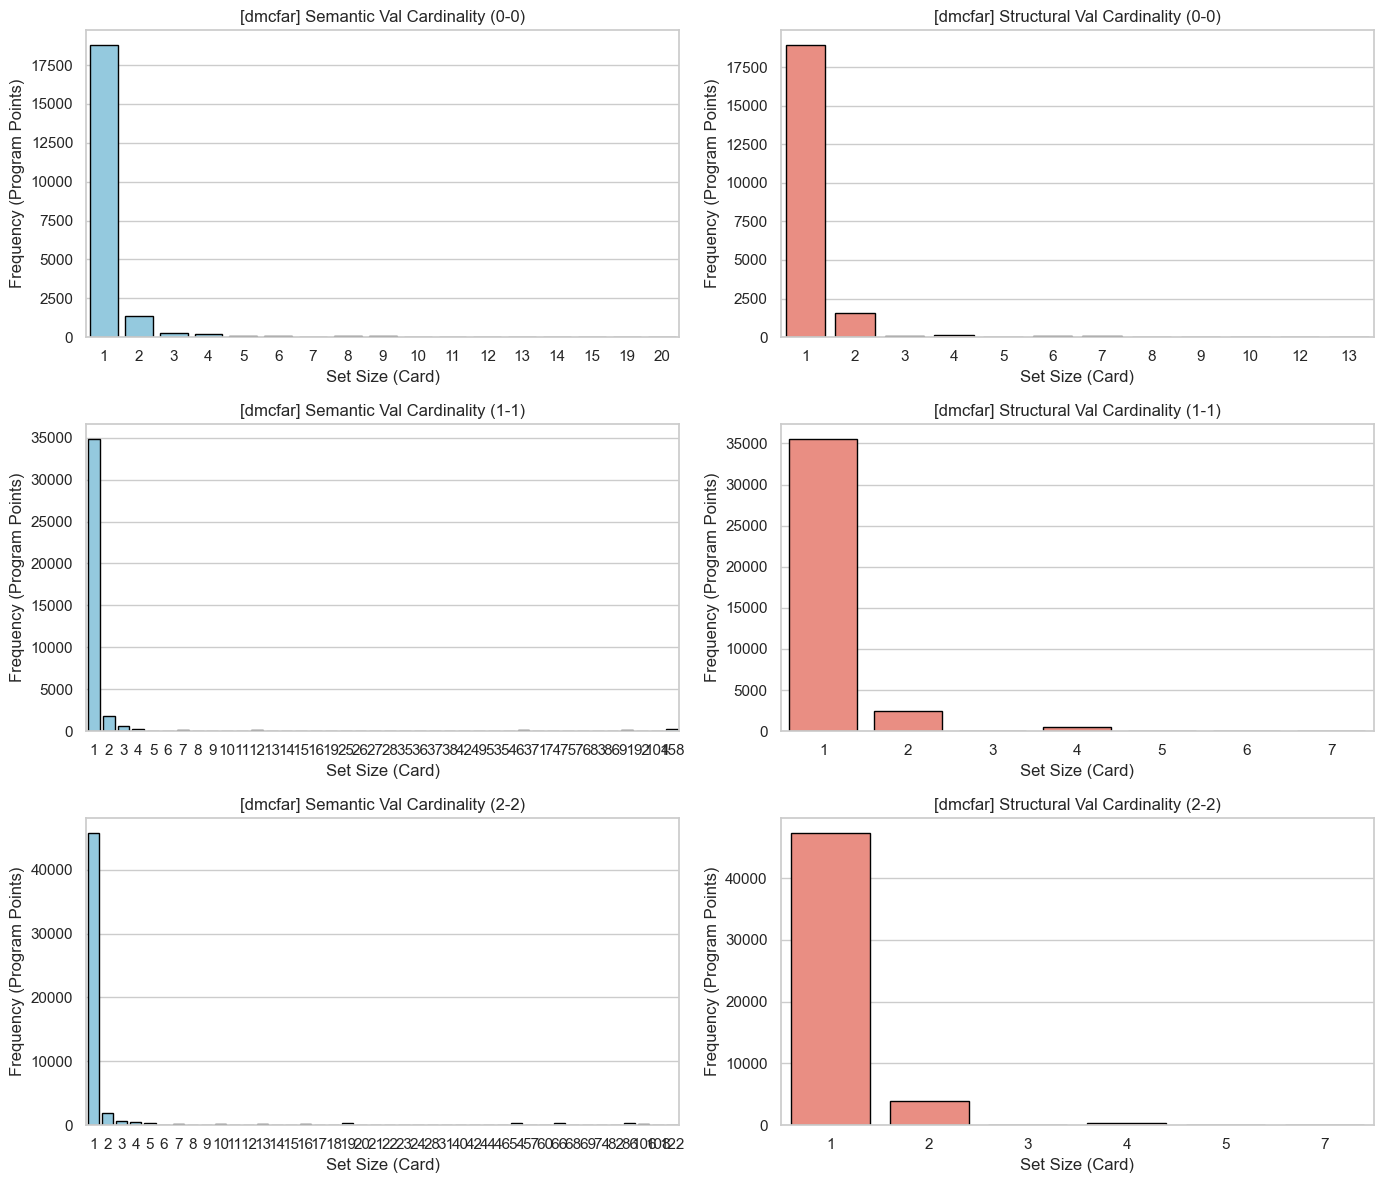
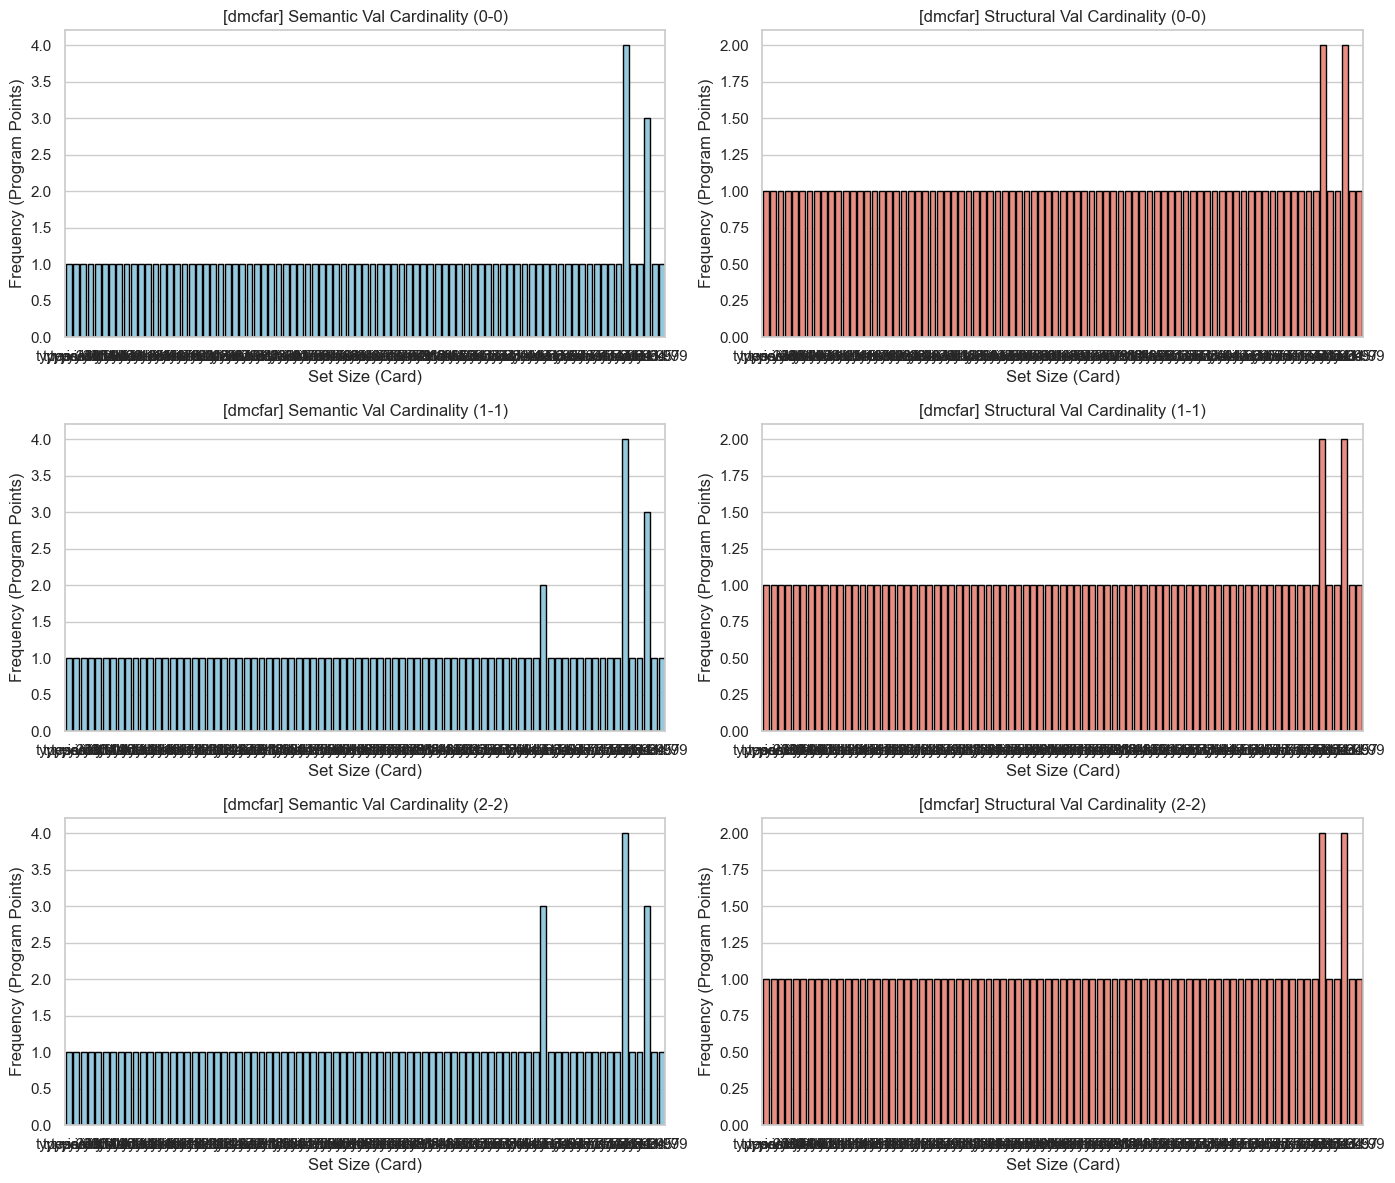
update analysis script / plots

diff --git a/benchmarks/analyze.py b/benchmarks/analyze.py
@@ -94,9 +94,11 @@ def compute_metrics(run, baseline_run):
     # Measures how many singletons were found relative to the original program's baseline size
     # This prevents the 'expansion' from diluting the precision score.
     base_total = baseline['numStructAddresses']
-    base_prec_struct = baseline['val0CFAStrSingletons'] / base_total if base_total > 0 else 1.0
-    poly_prec_struct = m['val0CFAStrSingletons'] / base_total if base_total > 0 else 1.0
-    prec_struct = poly_prec_struct / base_prec_struct if base_prec_struct > 0 else 1.0
+    # base_prec_struct = baseline['val0CFAStrSingletons'] / base_total if base_total > 0 else 1.0
+    # poly_prec_struct = m['val0CFAStrSingletons'] / base_total if base_total > 0 else 1.0
+    # if poly_prec_struct < base_prec_struct:
+    #     raise Exception(f"Poly: {poly_prec_struct}, Base: {base_prec_struct}, Addrs: {base_total}, Name: {run['benchmarkName']}, Variant: {run['variant']}, Params: {run['d']} {run['m']}")
+    # prec_struct = poly_prec_struct / base_prec_struct if base_prec_struct > 0 else 1.0
     
     # Relative Semantic Precision (Data-Flow Improvement)
     base_prec_sem = baseline['valSemSingletons'] / base_total if base_total > 0 else 1.0
@@ -108,24 +110,28 @@ def compute_metrics(run, baseline_run):
     prec_lit = (m['numLitAddresses'] - m['literalTopCount']) / m['numLitAddresses'] if m['numLitAddresses'] > 0 else 1.0
 
     # Productivity Helper (Smaragdakis et al., 2011)
-    def calc_prod(poly_map, base_map):
-        if not base_map: return 0.0
+    def calc_prod(metric, poly, base):
+        poly_map = poly[metric]
+        base_map = base[metric]
+        if not base_map: 
+            if not poly_map:
+                return 0.0
+            return 0.0 # raise Exception("Error " + str(base_map) + " " + str(run['benchmarkName']))
         hits = 0
-        for x_id, szs in poly_map.items():
-            base_vals = base_map.get(x_id)
+        for x_id, base_vals in base_map.items():
+            szs = poly_map.get(x_id)
             # if len(base_vals) > 1: raise Exception(f"Unexpected list length in base map {base_vals} {x_id}")
-            if base_vals is None: continue
-            
-            # Filter out -1 (Top) from baseline and get min
-            filtered_base = [v for v in base_vals if v != -1]
-            if not filtered_base:
-                # Baseline was Top, any non-Top size in poly is a hit
-                if any(s != -1 for s in szs):
-                    hits += 1
+            if szs is None: 
+                hits += 1 # dead code for poly
                 continue
             
+            # Filter out -1 (Top) from baseline and get min
+            filtered_base = [v for v in [base_vals] if v != -1]
+            if not filtered_base:
+                continue
             base_min = min(filtered_base)
-            if any(s < base_min and s != -1 for s in szs):
+            
+            if any(s < base_min and s != -1 for s in [szs]):
                 hits += 1
         return hits / len(base_map)
 
@@ -134,14 +140,14 @@ def compute_metrics(run, baseline_run):
         "time": avg_time,
         "rel_time": rel_time,
         "expansion": expansion,
-        "prec_struct": prec_struct,
+        "prec_struct": calc_prod('storeToStrSizes', m, baseline),
         "prec_sem": prec_sem,
         "prec_lit": prec_lit,
-        "prod_v_sem": calc_prod(m['exprToValSemSizes'], baseline['exprToValSemSizes']),
-        "prod_v_str": calc_prod(m['exprToValStrSizes'], baseline['exprToValStrSizes']),
-        "prod_k_str": calc_prod(m['structToContStrSizes'], baseline['structToContStrSizes']),
-        "prod_sem": calc_prod(m['callToSemRetSizes'], baseline['callToSemRetSizes']),
-        "prod_str": calc_prod(m['structToStrRetSizes'], baseline['structToStrRetSizes'])
+        "prod_v_sem": calc_prod('exprToValSemSizes', m, baseline),
+        "prod_v_str": calc_prod('exprToValStrSizes', m, baseline),
+        "prod_k_str": calc_prod('structToContStrSizes', m, baseline),
+        "prod_sem": calc_prod('callToSemRetSizes', m, baseline),
+        "prod_str": calc_prod('structToStrRetSizes', m, baseline)
     }
 
 def generate_icfp_tables(results, baselines, variant_name):
@@ -274,7 +280,7 @@ def plot_visualizations(df, struct_mu, sem_mu, time_mu, variant_name):
         ax.set_title(f"[{variant_name}] Pareto: Space vs {label}", fontsize=15, pad=20)
         ax.set_xlabel("Expansion Factor (Geometric Mean, Log Scale)")
         ax.set_xscale('log')
-        ax.set_ylabel(f"Relative Precision (Baseline = 1.0)")
+        ax.set_ylabel(f"Relative Precision (Baseline = {1.0 if metric == 'prec_sem' else 0.0})")
         # Add timeout legend note
         handles, labels = ax.get_legend_handles_labels()
         ax.legend(handles, labels, title="Sensitivity (d, m)\n⚠N = N timeouts", 
@@ -282,7 +288,7 @@ def plot_visualizations(df, struct_mu, sem_mu, time_mu, variant_name):
         plt.tight_layout()
         print(f"Saving Pareto Space: {os.path.join(output_dir, f'pareto_{filename_pfx}.png')}")
         plt.savefig(os.path.join(output_dir, f"pareto_{filename_pfx}.png"), bbox_inches='tight')
-        plt.show()
+        # plt.show()
         plt.close()
     
     # Plot Pareto Frontiers (Rel Time vs Precisions)
@@ -298,7 +304,7 @@ def plot_visualizations(df, struct_mu, sem_mu, time_mu, variant_name):
         ax.set_title(f"[{variant_name}] Pareto: Relative Time vs {label}", fontsize=15, pad=20)
         ax.set_xlabel("Time Overhead (Geometric Mean, Log Scale)")
         ax.set_xscale('log')
-        ax.set_ylabel(f"Relative Precision (Baseline = 1.0)")
+        ax.set_ylabel(f"Relative Precision (Baseline = {1.0 if metric == 'prec_sem' else 0.0})")
         # Add timeout legend note
         handles, labels = ax.get_legend_handles_labels()
         ax.legend(handles, labels, title="Sensitivity (d, m)\n⚠N = N timeouts", 
@@ -306,7 +312,7 @@ def plot_visualizations(df, struct_mu, sem_mu, time_mu, variant_name):
         plt.tight_layout()
         print(f"Saving Pareto Time: {os.path.join(output_dir, f'pareto_{filename_pfx}.png')}")
         plt.savefig(os.path.join(output_dir, f"pareto_{filename_pfx}.png"), bbox_inches='tight')
-        plt.show()
+        # plt.show()
         plt.close()
     
     # Heatmaps
@@ -327,7 +333,7 @@ def plot_visualizations(df, struct_mu, sem_mu, time_mu, variant_name):
         plt.tight_layout()
         print(f"Saving Heatmap: {os.path.join(output_dir, filename)}")
         plt.savefig(os.path.join(output_dir, filename), bbox_inches='tight')
-        plt.show()
+        # plt.show()
         plt.close()
 
 def plot_histograms(results, variant_name):
@@ -354,14 +360,8 @@ def plot_histograms(results, variant_name):
             if r['runID'] == run_id and r.get('storeMetrics'):
                 m = r['storeMetrics']
                 # Aggregate across all program points for more stable histograms
-                for sizes in m.get('exprToValSemSizes', {}).values():
-                    for s in sizes:
-                        s_val = s if s != -1 else "Top"
-                        sem_counts[s_val] = sem_counts.get(s_val, 0) + 1
-                for sizes in m.get('exprToValStrSizes', {}).values():
-                    for s in sizes:
-                        s_val = s if s != -1 else "Top"
-                        str_counts[s_val] = str_counts.get(s_val, 0) + 1
+                sem_counts = m.get('exprToValSemSizes', {})
+                str_counts = m.get('exprToValStrSizes', {})
 
         for j, (counts, title, color) in enumerate([
             (sem_counts, f"Semantic Val Cardinality ({run_id})", "skyblue"),
@@ -667,7 +667,7 @@ def plot_size_vs_time_comparison(all_results, min_size=100):
     plt.savefig(output_path, bbox_inches='tight', dpi=150)
     print(f"Saved: {output_path}")
     
-    plt.show()
+    # plt.show()
     plt.close('all')
 
 def plot_size_vs_cont_precision(all_results, min_size=100):
@@ -878,7 +878,7 @@ def plot_size_vs_cont_precision(all_results, min_size=100):
     plt.savefig(output_path, bbox_inches='tight', dpi=150)
     print(f"Saved: {output_path}")
     
-    plt.show()
+    # plt.show()
     plt.close('all')
 
 def print_top_programs_by_size(all_results, top_n=10):
